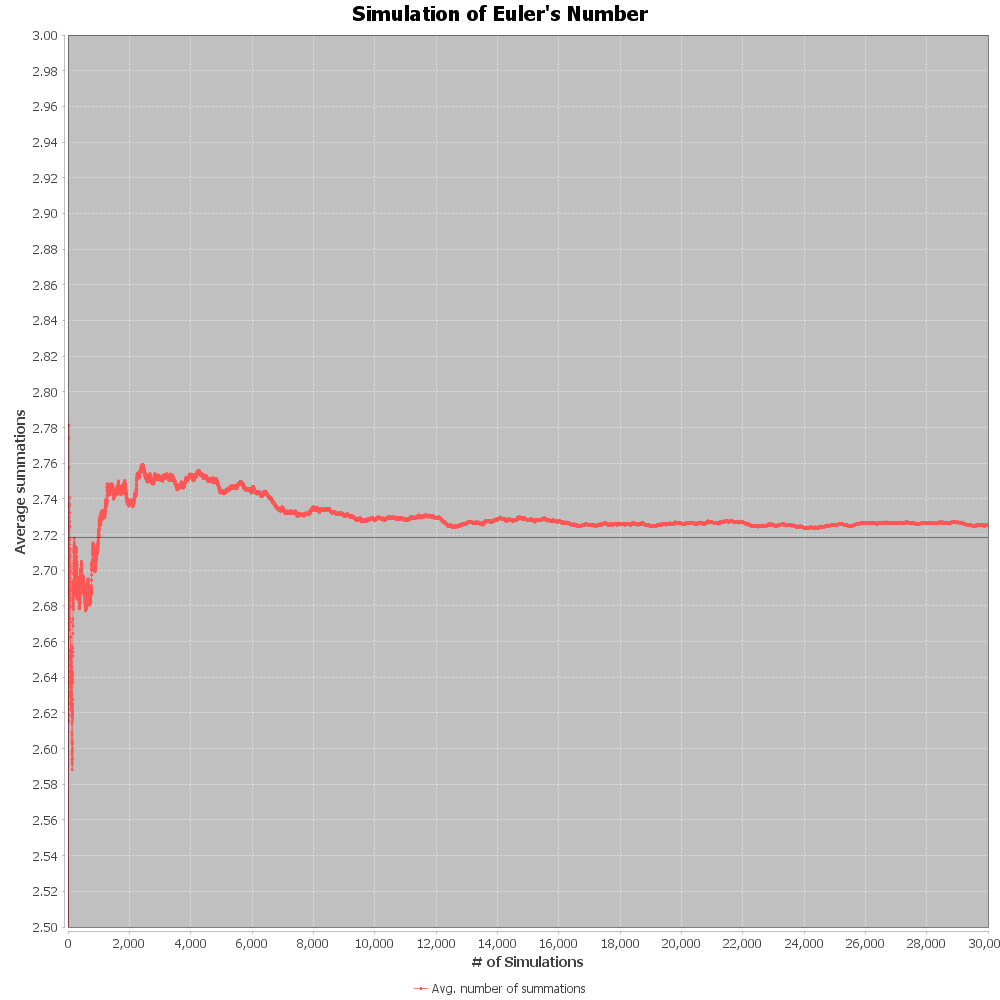
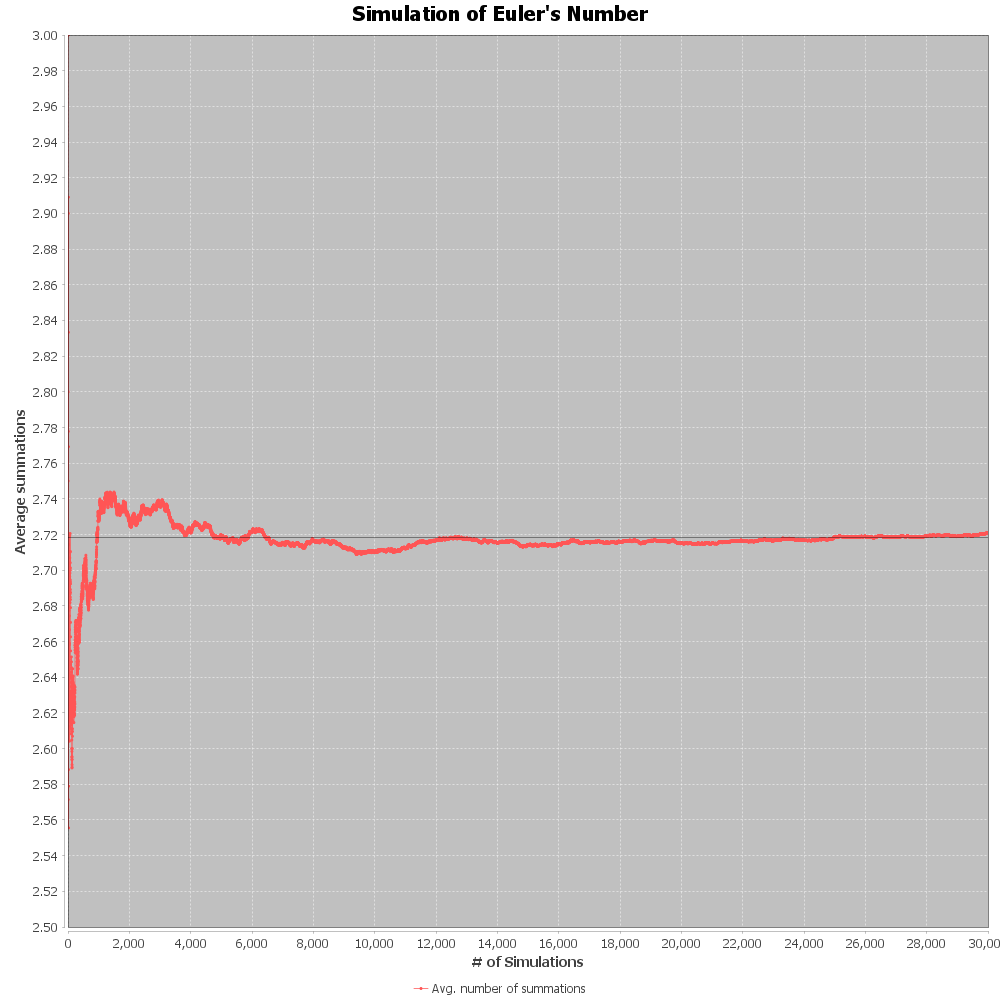
Implemented user input and calculates percent error

Changed region(s): [[0.062, 0.465, 0.992, 0.744]]

diff --git a/src/EulerSimulation.java b/src/EulerSimulation.java
@@ -3,7 +3,10 @@ import java.awt.geom.Ellipse2D;
 import java.io.File;
 import java.io.IOException;
 import java.util.ArrayList;
+import java.util.InputMismatchException;
 import java.util.List;
+import java.util.Scanner;
+
 import org.jfree.chart.ChartFactory;
 import org.jfree.chart.ChartUtils;
 import org.jfree.chart.JFreeChart;
@@ -16,14 +19,40 @@ import org.jfree.data.xy.XYSeriesCollection;
 public class EulerSimulation {
     public static void main(String[] args) throws IOException {
 
+        Scanner consoleScanner = new Scanner(System.in);
+        int numSimulations = 1000000;
+        boolean validInput = false;
+        double estimatedValue = 0;
+
+        System.out.println("This program estimates Euler's Number given a specified number of simulations used to" +
+                " generate the estimate.");
+
+        do{
+            try{
+                System.out.print("Enter the number of simulations: ");
+                numSimulations = consoleScanner.nextInt();
+                validInput = true;
+                if(numSimulations <= 0) {
+                    validInput = false;
+                    System.out.println("Please enter a positive integer.");
+                }
+            }catch (InputMismatchException e)
+            {
+                consoleScanner.nextLine();
+                validInput = false;
+                System.out.println("Please enter an integer.");
+            }
+        }while(!validInput);
+
+        System.out.println(numSimulations);
+
+
 
         XYSeriesCollection dataset = new XYSeriesCollection();
         XYSeries series1 = new XYSeries("Avg. number of summations");
-
-
         List<Integer> values = new ArrayList<>();
 
-        int numSimulations = 1000000;
+
         double countSum = 0;
 
         for(int i = 0; i < numSimulations; i++) {
@@ -39,7 +68,8 @@ public class EulerSimulation {
                 }
             }
             //series1.add(i+1,values.stream().mapToInt(e -> e).average().getAsDouble());
-            series1.add(i+1, countSum/(i+1));
+            estimatedValue = countSum/(i+1);
+            series1.add(i+1, estimatedValue);
         }
         dataset.addSeries(series1);
 
@@ -49,8 +79,12 @@ public class EulerSimulation {
                 "Average summations", // Y-Axis Label
                 dataset // Dataset for the Chart
         );
+        
+        System.out.println("Estimated value of e: " + estimatedValue);
+        System.out.println("Percent error between estimated value and theoretical value of Euler's Number: " +
+                Math.abs(estimatedValue - Math.exp(1)) * 100 + "%.");
 
-
+        System.out.println("Please do not close the program while the graph is being generated.");
 
         XYPlot plot = (XYPlot) scatterPlot.getPlot();
 
@@ -73,6 +107,9 @@ public class EulerSimulation {
 
         String fileName = "Simulation of Euler's Number with " + numSimulations + " Simulations.png";
         ChartUtils.saveChartAsPNG(new File(fileName), scatterPlot, 1000, 1000);
+
+        System.out.println("-------------------------------------------------------------------");
+        System.out.println("Graph of Euler's Number simulation is complete.");
 
     }
 }
